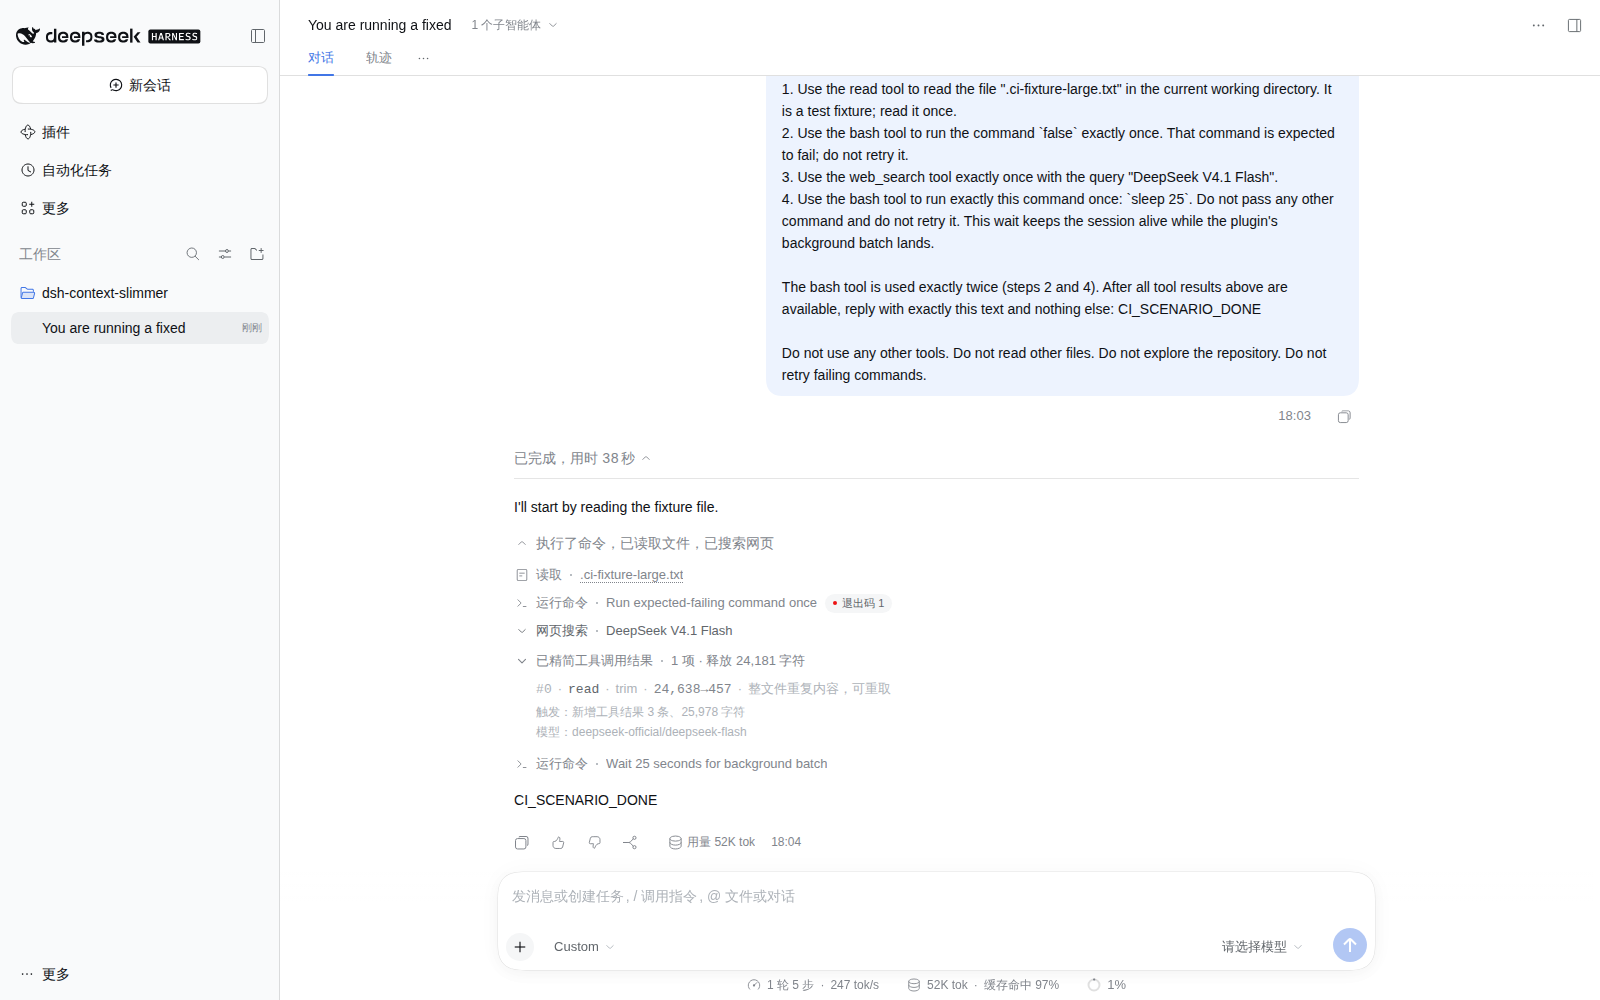
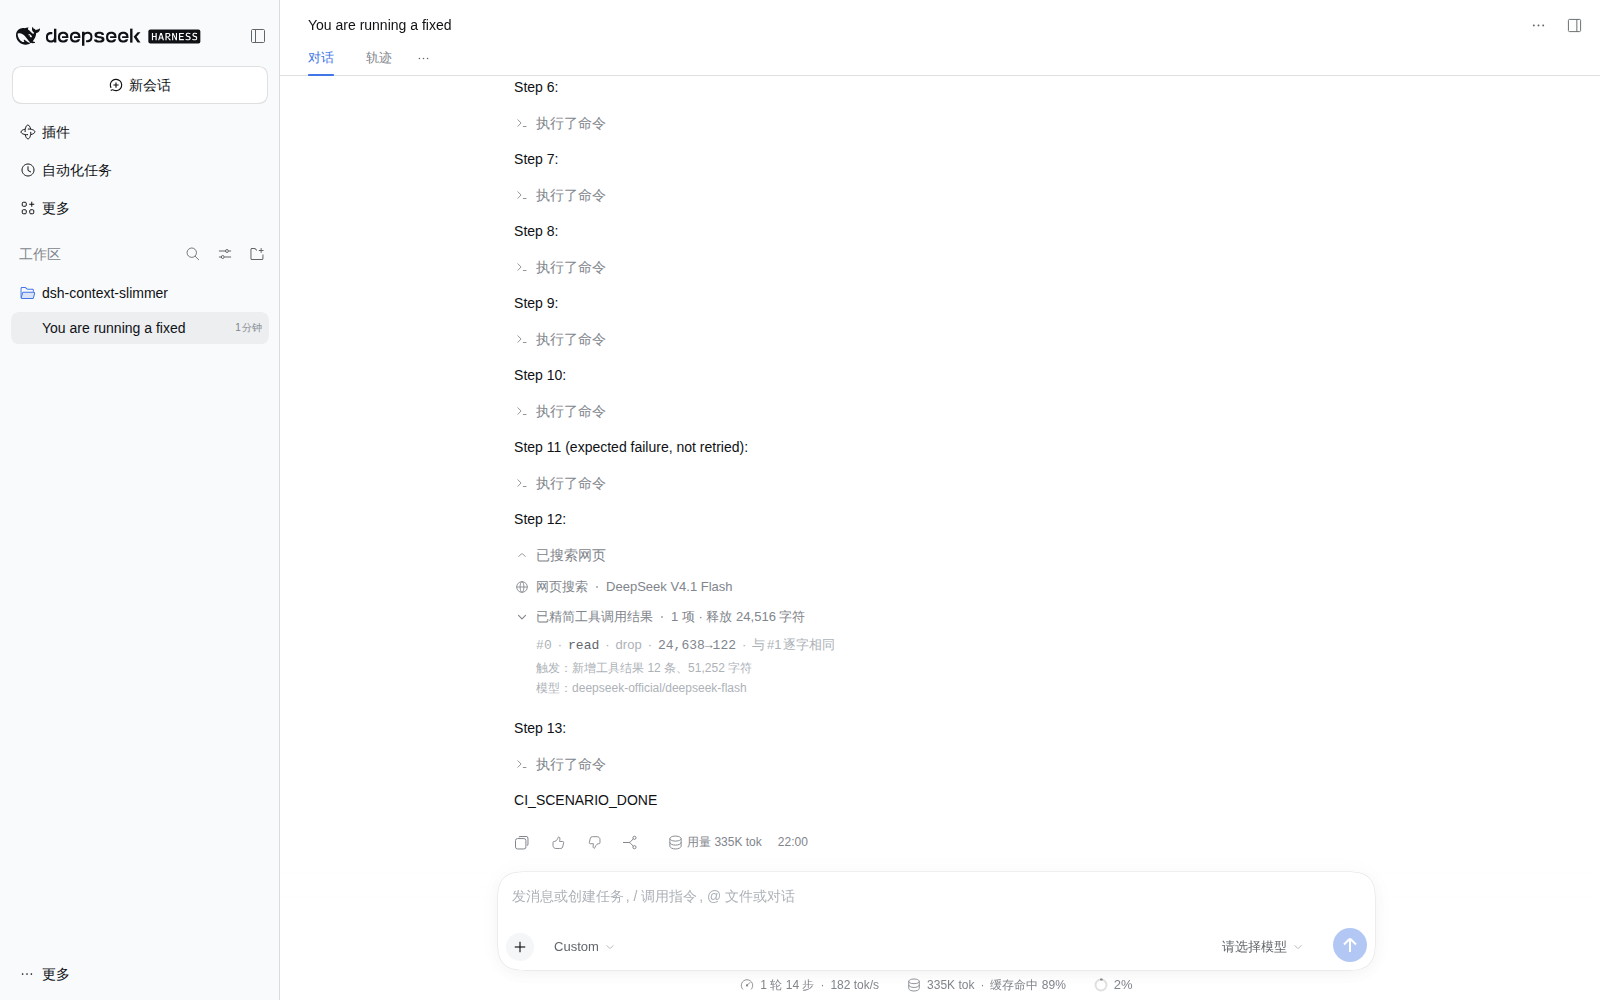
ci: harden v0.2.0 evidence + release docs
- benchmark artifact flattening (only /tmp/ci-artifacts uploaded), retried
  counter now only counts explicit true, planner-observability wording
- plugin config screenshot uses a taller viewport so all 14 fields + save are
  visible in the release evidence
- release docs: CHANGELOG v0.2.0, generated benchmark table, fresh screenshots
  from verify run 44749045095 (chat row, detail, trajectory, plugins, config)

diff --git a/docs/benchmark.md b/docs/benchmark.md
@@ -1,38 +1,41 @@
 # Benchmark — conservative 默认策略的非劣演示（v0.2.0 / issue #2）
 
-> 本文件由 `scripts/ci/benchmark.mjs` 在真实 CI 运行后自动生成（候选内容写到
-> `/tmp/ci-artifacts/benchmark.md`，workflow 通过 `--write-doc` 同步到本路径并作为
-> artifact 上传）。CI 只生成、不自动提交；发布前从 artifact 取回并提交。
->
-> 最近一次真实运行：_尚未运行（等 core/ui 的 v0.2.0 实现落地后由 Lead 触发
-> `benchmark.yml`）_。
+- 生成：benchmark run 44749045128（commit aeb0c61）；artifact 内另附 benchmark-report.json
+- 模型：`deepseek-flash`；重复次数：R=1（模式交错 B/C/A）；场景：`scripts/ci/benchmark-scenario.md`
+- fixture：`unique.txt` (26570 B, sha256:bddb339222b8…)，`duplicate.txt` (23560 B, sha256:38afc7ab4b05…)，`verify.mjs` (402 B, sha256:1519252a3a09…)，`log.mjs` (573 B, sha256:59479014a834…)
+- 结论：**非劣演示（single-run）**——baseline 与 conservative 每次运行 5/5、conservative 折叠后工具文本更少；这不是统计显著性结论。
 
-## 场景与方法（摘要）
+## 1. 质量与 token
 
-- 单一复合场景 `scripts/ci/benchmark-scenario.md`，一次会话覆盖四类输出：
-  1. 唯一大文件 `scripts/ci/bench/fixture/unique.txt`（26,570 B，中部含 C1/C2）；
-  2. 重复大文件 `scripts/ci/bench/fixture/duplicate.txt`（23,560 B，读两遍，保留副本含 C4）；
-  3. 确定性失败命令 `node scripts/ci/bench/fixture/verify.mjs`（`ERR_BENCH_42` / exit 42 = C3）；
-  4. 两条逐字相同的高重复日志 `node scripts/ci/bench/fixture/log.mjs`（唯一行 `BACKUP_SLOT=blue-17` = C5），
-     尾部再加 3 条无关调用把重复对推出 `protectRecent`。
-- 5 个校验点写成最终 JSON：`unique_code` / `atlas_port` / `failure` /
-  `maint_token` / `backup_slot`，CI 做字段级精确匹配。
-- 三模式：`baseline`（插件 disabled）、`conservative`（v0.2.0 默认策略）、
-  `aggressive`（v0.1 lossy 策略，仅报告）。push 默认 R=1，`workflow_dispatch`
-  可设 `repetitions=3`；交错执行 B/C/A。
-- 硬门禁：baseline 与 conservative 每次 5/5；conservative 折叠后工具文本 <
-  baseline；conservative planner 截断 = 0 且至少发生一次 drop；aggressive 不设门禁。
-- 结论措辞：**非劣演示（single-run / R=N）**，不是统计显著。
+| 模式 | 运行 | 校验点 | folded 工具文本（中位） | raw 工具文本（中位） | 重复 read（中位） | billed tokens（中位） | cost ¥（中位） | drops/trims | planner 截断 |
+| :-- | --: | :-- | --: | --: | --: | --: | --: | :-- | --: |
+| baseline | baseline-r1 | 5 | 89153 | 89153 | 1 | 14182 | 0.0216 | 0/0 | 0 |
+| conservative | conservative-r1 | 5 | 59142 | 89153 | 1 | 47140 | 0.0606 | 2/0 | 0 |
+| aggressive | aggressive-r1 | 5 | 36778 | 89153 | 1 | 35573 | 0.0444 | 0/2 | 0 |
 
-## 生成方式
+## 2. planner 开销（diagnostics plan/apply）
 
-```bash
-# CI（真实 API 调用，受 secret gate 保护）
-gh workflow run benchmark.yml -f repetitions=1
-# 本地 dry-run（无网络、无模型调用）
-node scripts/ci/benchmark.mjs --dry-run
-```
+| 模式 | plan 调用 | prompt tokens | completion tokens | durationMs | finishReason | 截断 |
+| :-- | --: | --: | --: | --: | :-- | --: |
+| baseline | 0 | 0 | 0 | 0 | - | 0 |
+| conservative | 1 | 56659 | 112 | 1489 | stop | 0 |
+| aggressive | 4 | 84833 | 834 | 10055 | stop | 0 |
 
-产物：`/tmp/ci-artifacts/benchmark-report.json`（每次 run 全量指标）、
-`/tmp/ci-artifacts/benchmark.md`（本文件内容）、`/tmp/ci-artifacts/benchmark-summary.md`
-（job summary 表格）。
+## 3. 每次运行明细
+
+| run | valid | C1 | C2 | C3 | C4 | C5 | score | folded | raw | drops | truncations | finishReason |
+| :-- | :-- | :-- | :-- | :-- | :-- | :-- | --: | --: | --: | --: | --: | :-- |
+| baseline-r1 | yes | ✅ | ✅ | ✅ | ✅ | ✅ | 5/5 | 89153 | 89153 | 0 | 0 | - |
+| conservative-r1 | yes | ✅ | ✅ | ✅ | ✅ | ✅ | 5/5 | 59142 | 89153 | 2 | 0 | stop |
+| aggressive-r1 | yes | ✅ | ✅ | ✅ | ✅ | ✅ | 5/5 | 36778 | 89153 | 0 | 0 | stop |
+
+## 4. 门禁
+
+- baseline 与 conservative 每次 5/5：PASS
+- conservative 折叠后工具文本 < baseline：PASS
+- conservative planner 截断 = 0：PASS
+- conservative 至少发生一次精简：PASS
+- aggressive 仅报告（不设门禁）：5
+- 总门禁：**PASS**
+
+> 说明：本表由 `scripts/ci/benchmark.mjs` 自动生成；单次/少量重复只能作为非劣演示，不能宣称统计显著（见 `docs/research/benchmark-design.md` §5）。

diff --git a/CHANGELOG.md b/CHANGELOG.md
@@ -1,0 +1,66 @@
+# Changelog
+
+All notable changes to the `@ds-hu/dsh-context-slimmer` bundle. Packages are versioned in lockstep.
+
+## v0.2.0 — 2026-11-20
+
+安全性与可靠性优先的版本：修复 issue #1、#2，重做规划器链路，新增原生插件面板配置页。
+
+### Fixed
+
+- **规划器输出被截断（v0.1.0 生产回归）**：v0.1.0 给后台 fork 子 Agent 硬编码 `maxTokens: 2048`，
+  而输出预算同时覆盖推理 token 与最终输出；继承主模型 `reasoningEffort: "max"` 时推理先耗尽预算，
+  生产日志里 14/15 个规划子会话以 `turn/end.reason.kind = "max-tokens"` 结束、没有任何计划输出。
+  v0.2.0 默认**不设 `maxTokens` 上限**（`model.maxOutputTokens: 0` = 跟随模型默认），
+  `model.reasoningEffort` 默认 `inherit`（保留思考）；只有显式设置上限且发生截断时才自动不带 cap
+  重试一次，仍失败才整体 no-op 并写 `planner-truncated` 诊断。**不默认关闭思考。**
+- **子 Agent 会话也参与精简（issue #1）**：`includeSubagents` 默认 `true`；根 Agent 与
+  subagent / agent-team 成员会话都会触发精简（`session.header.origin === 'subagent'`）。
+- **默认策略过激进（issue #2）**：默认 `policy: 'conservative'`，只做宿主可重新验证证据的整条
+  drop（`duplicateOf` 逐字相等 / `supersededBy` 失败→后续成功 / `empty` 空输出）；禁止 trim。
+  `balanced` / `aggressive` 需显式开启。触发条件改为 **AND**（`everyNToolCalls=12` 且
+  `minChars=24000`），`protectRecent=3`、`minTargetChars=4096`、`maxTargets=4`。
+- 宿主对“逐字相同的重复读取”提供确定性提示；若模型在 conservative 下返回空计划，宿主会对可证明
+  重复做确定性兜底（重新走同一套 `validatePlan`），避免保守策略退化为永远 no-op。
+
+### Changed
+
+- **规划器改为直调 `ctx.llm.stream()`**：不再 fork 子 Agent。没有 `subagent/*` 会话事件，
+  不计入 WebUI “N 个子智能体”，主 Agent 的 subagent 工具也列不出规划器。
+- 精简阈值与精简模型现在可在 **原生插件面板** 中点击模块标题配置并实时生效（14 个字段，含
+  `everyNToolCalls`、`minChars`、`policy`、`includeSubagents`、`model.provider/model`、
+  `model.reasoningEffort`、`model.maxOutputTokens` 等）；写入 profile 的 `cordis.patch.yml`。
+- drop 替换文案指向保留副本并明确 `do not re-read`，避免诱发重复读取。
+- 提示词升级为 v1.4：极简纯 JSON 输出、policy 分档、保守档“无法证明安全就返回空计划”。
+- 诊断（`diagnosticsFile`）新增 planner `finishReason` / `usage` / `durationMs` / `retried`
+  与 `planner-truncated` / `planner-invalid-json` 记录。
+
+### Added
+
+- CI benchmark（`.github/workflows/benchmark.yml`）：baseline / conservative / aggressive 对比，
+  5 个精确事实校验点 + planner 开销/截断统计，硬门禁 conservative 截断=0 且质量不劣。
+- verify e2e 新增硬门禁：主日志无 `subagent/*` 事件、diagnostics 无 `planner-truncated`；
+  Playwright 截图新增原生配置页并断言 14 个字段、页面无“N 个子智能体”计数。
+
+### Benchmark（single-run，非统计显著）
+
+| 模式 | 校验点 | 折叠后工具文本 | drops/trims | planner 截断 |
+| :-- | :-- | --: | :-- | --: |
+| baseline（插件 disabled） | 5/5 | 89,153 字符 | 0/0 | 0 |
+| conservative（默认） | 5/5 | 59,142 字符（-33.7%） | 2/0 | 0 |
+| aggressive（仅报告） | 5/5 | 36,778 字符（-58.7%） | 0/2 | 0 |
+
+详见 [`docs/benchmark.md`](docs/benchmark.md)。
+
+### Upgrade notes
+
+- 升级后默认策略是 conservative：只会删除有可验证证据的重复/被覆盖/空输出，**不会再 trim 长文本**。
+  需要旧行为请显式设置 `policy: aggressive`。
+- 若你在 v0.1.0 里显式设置过 `model.maxOutputTokens`（例如 2048），请改成 `0` 或足够大的值：
+  该上限包含推理 token，过小会导致规划器截断。
+- 子 Agent 会话默认也会被精简；如需只处理根 Agent，设置 `includeSubagents: false`。
+
+## v0.1.0 — 2026-11-19
+
+- 首个版本：`tool-result-slimmer` 模块（fork 子 Agent 规划器）、原生风格“已精简工具调用结果”行、
+  bundle patch 模块化行、离线单测与 GitHub Actions verify/publish 流水线。
